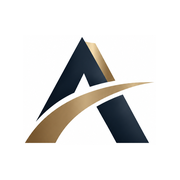
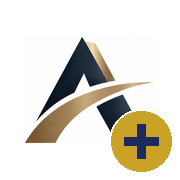
Add files via upload

Changed region(s): [[0.6111, 0.6111, 0.9722, 0.9722]]

diff --git a/index.html b/index.html
@@ -3,15 +3,16 @@
 <head>
 <meta charset="utf-8">
 <meta name="viewport" content="width=device-width, initial-scale=1, viewport-fit=cover">
-<title>Anara Books</title>
+<title>Anara Catat</title>
 <meta name="robots" content="noindex, nofollow, noarchive">
 <meta name="theme-color" content="#1b2b5e">
 <meta name="apple-mobile-web-app-capable" content="yes">
 <meta name="mobile-web-app-capable" content="yes">
 <meta name="apple-mobile-web-app-status-bar-style" content="default">
-<meta name="apple-mobile-web-app-title" content="Anara Books">
+<meta name="apple-mobile-web-app-title" content="Anara Catat">
 <link rel="manifest" href="manifest.webmanifest">
 <link rel="icon" href="icon-192.png">
+<!-- Quick add (Catat cepat): same launcher, opens the app straight on the New record form. Its own icon has a gold + badge. -->
 <link rel="apple-touch-icon" href="apple-touch-icon.png">
 <style>
   html,body{margin:0;height:100%;background:#fff;font-family:-apple-system,BlinkMacSystemFont,"Segoe UI",Roboto,Arial,sans-serif;color:#131a2c}
@@ -31,7 +32,7 @@
 <body>
 <div id="top"></div>
 <div id="splash">
-  <img src="logo.png" alt="Anara">
+  <img src="../logo.png" alt="Anara">
   <div class="spin" id="spin"></div>
   <div class="msg" id="msg"></div>
   <div id="help">
@@ -39,13 +40,15 @@
     <button class="btn sec" id="install">Install on this phone</button>
   </div>
 </div>
-<iframe id="app" title="Anara Books" allow="clipboard-write; camera; fullscreen" referrerpolicy="no-referrer-when-downgrade"></iframe>
+<iframe id="app" title="Anara Catat" allow="clipboard-write; camera; fullscreen" referrerpolicy="no-referrer-when-downgrade"></iframe>
 
-<script src="config.js"></script>
+<script src="../config.js"></script>
 <script>
 (function () {
   var cfg = window.ANARA_CONFIG || {};
   var url = String(cfg.APP_URL || '').trim();
+  var fullUrl = url;
+  if (url) url += (url.indexOf('?') < 0 ? '?' : '&') + 'quick=1';   // quick add
   var $ = function (id) { return document.getElementById(id); };
   var isIOS = /iPad|iPhone|iPod/.test(navigator.userAgent) || (navigator.platform === 'MacIntel' && navigator.maxTouchPoints > 1);
   var standalone = window.matchMedia('(display-mode: standalone)').matches || window.navigator.standalone === true;
@@ -60,7 +63,7 @@
     $('help').style.display = 'flex';
   }
 
-  if ('serviceWorker' in navigator) navigator.serviceWorker.register('sw.js').catch(function () {});
+  if ('serviceWorker' in navigator) navigator.serviceWorker.register('../sw.js').catch(function () {});
 
   // "Install" button for Android / desktop Chrome
   var deferred = null;
@@ -76,10 +79,11 @@
     return;
   }
   $('direct').href = url;
+  $('direct').textContent = 'Open Anara Catat';
   $('direct').onclick = function () { try { localStorage.setItem('anara_mode', 'redirect'); } catch (e) {} };
 
   if (!navigator.onLine) {
-    showHelp('You are offline. Anara Books needs internet to load your records.');
+    showHelp('No signal. Anara Catat needs a little signal to open. Once it is open, records you save are kept on the phone and sent when the signal is back.');
     window.addEventListener('online', function () { location.reload(); });
     return;
   }
@@ -88,10 +92,10 @@
   if (!standalone && !sessionStorage.getItem('anara_seen')) {
     sessionStorage.setItem('anara_seen', '1');
     var tip = isIOS
-      ? 'Tip: tap <b>Share</b> → <b>Add to Home Screen</b> to install Anara Books with its own icon.'
-      : 'Tip: use <b>Install</b> (or browser menu → <b>Add to Home screen</b>) to get the Anara Books icon.';
+      ? 'Tip: tap <b>Share</b> → <b>Add to Home Screen</b> to install Anara Catat (quick add) with its own icon.'
+      : 'Tip: use <b>Install</b> (or browser menu → <b>Add to Home screen</b>) to get the Anara Catat icon.';
     showHelp(tip);
-    $('direct').textContent = 'Continue to Anara Books';
+    $('direct').textContent = 'Continue to Anara Catat';
     $('direct').onclick = function (e) { e.preventDefault(); start(); };
     return;
   }
@@ -104,13 +108,14 @@
     // The app tells us when it has really loaded (not a sign-in or error page)
     window.addEventListener('message', function (e) {
       if (e.data && e.data.anara === 'ready') $('splash').style.display = 'none';
+      if (e.data && e.data.anara === 'open-full') location.href = '../';   // "Open the full app" button
     });
     frame.src = url;
     // If the app hasn't appeared after a while (e.g. sign-in blocked), offer to open it directly
     setTimeout(function () {
       if ($('splash').style.display !== 'none') {
         showHelp('Taking longer than usual. If it doesn\'t load, open it directly:');
-        $('direct').textContent = 'Open Anara Books directly';
+        $('direct').textContent = 'Open Anara Catat directly';
         $('direct').onclick = function () { try { localStorage.setItem('anara_mode', 'redirect'); } catch (e) {} };
       }
     }, 12000);

diff --git a/sw.js b/sw.js
@@ -1,7 +1,8 @@
 /* Keeps the launcher itself available offline. Your data always comes live from Google. */
-var CACHE = 'anara-launcher-v2';
+var CACHE = 'anara-launcher-v3';
 var FILES = ['./', './index.html', './config.js', './manifest.webmanifest',
-  './icon-192.png', './icon-512.png', './maskable-512.png', './apple-touch-icon.png', './logo.png'];
+  './icon-192.png', './icon-512.png', './maskable-512.png', './apple-touch-icon.png', './logo.png',
+  './quick/', './quick/index.html', './quick/manifest.webmanifest', './quick/icon-192.png', './quick/icon-512.png', './quick/maskable-512.png', './quick/apple-touch-icon.png'];
 
 self.addEventListener('install', function (e) {
   e.waitUntil(caches.open(CACHE).then(function (c) { return c.addAll(FILES); }).then(function () { return self.skipWaiting(); }));
@@ -21,5 +22,5 @@ self.addEventListener('fetch', function (e) {
     var copy = res.clone();
     caches.open(CACHE).then(function (c) { c.put(e.request, copy); });
     return res;
-  }).catch(function () { return caches.match(e.request, { ignoreSearch: true }).then(function (r) { return r || caches.match('./index.html'); }); }));
+  }).catch(function () { return caches.match(e.request, { ignoreSearch: true }).then(function (r) { return r || caches.match(url.pathname.indexOf('/quick/') >= 0 ? './quick/index.html' : './index.html'); }); }));
 });

diff --git a/PWA-SETUP.md b/PWA-SETUP.md
@@ -40,3 +40,11 @@ The Anara icon then appears on the home screen and opens the app full screen.
 
 ## A note on security
 The app now allows itself to be shown inside another page (needed for the full-screen launcher). It still only works for signed-in Google accounts on your Users list, so nobody else can see data. Only share the launcher link with your staff.
+
+## Quick add icon: "Anara Catat"
+A second home-screen icon that opens the app straight on the **New record** form, for recording on the move. Same logo with a gold **+** badge.
+- Link: your launcher address + `quick/`, e.g. `https://anarahss-spec.github.io/anara-books/quick/`
+- Install it the same way as the main icon (open the link → Install / Add to Home Screen). Phones can have both icons.
+- It needs a little signal to **open**. Once open, records you save are **kept on the phone** and sent by themselves when the signal is back. Nothing is sent twice, even if the signal drops mid-send.
+- Needs the Apps Script update from 21 Nov 2026 or later (it understands `?quick=1`). With an older app version the icon just opens the normal app.
+- "Open the full app" at the bottom switches to the main Anara Books app.
